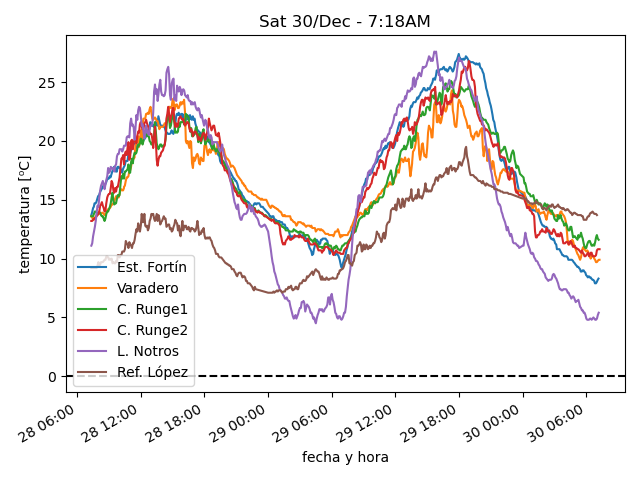
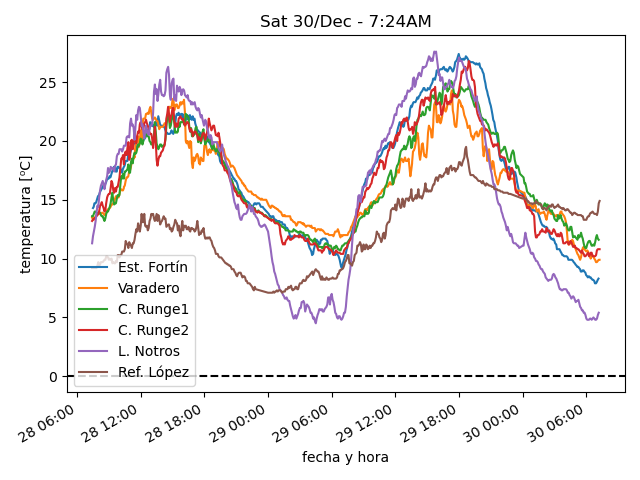
actualiza datos

diff --git a/estaciones/estacion6.html b/estaciones/estacion6.html
@@ -18,32 +18,32 @@
     </tr>
     <tr>
      <td class="stats_data">
-      7:00AM
+      7:15AM
      </td>
     </tr>
     <tr>
      <td class="stats_data">
-      13.7
+      14.9
      </td>
     </tr>
     <tr>
      <td class="stats_data">
-      -1.1
+      -1.7
      </td>
     </tr>
     <tr>
      <td class="stats_data">
-      36.0
+      32.0
      </td>
     </tr>
     <tr>
      <td class="stats_data">
-      1013.82
+      1013.95
      </td>
     </tr>
     <tr>
      <td class="stats_data">
-      3.2/4.8 WSW
+      4.8/8.0 WSW
      </td>
     </tr>
     <tr>
@@ -58,7 +58,7 @@
     </tr>
     <tr>
      <td class="stats_data">
-      900.0
+      914.0
      </td>
     </tr>
    </tbody>
